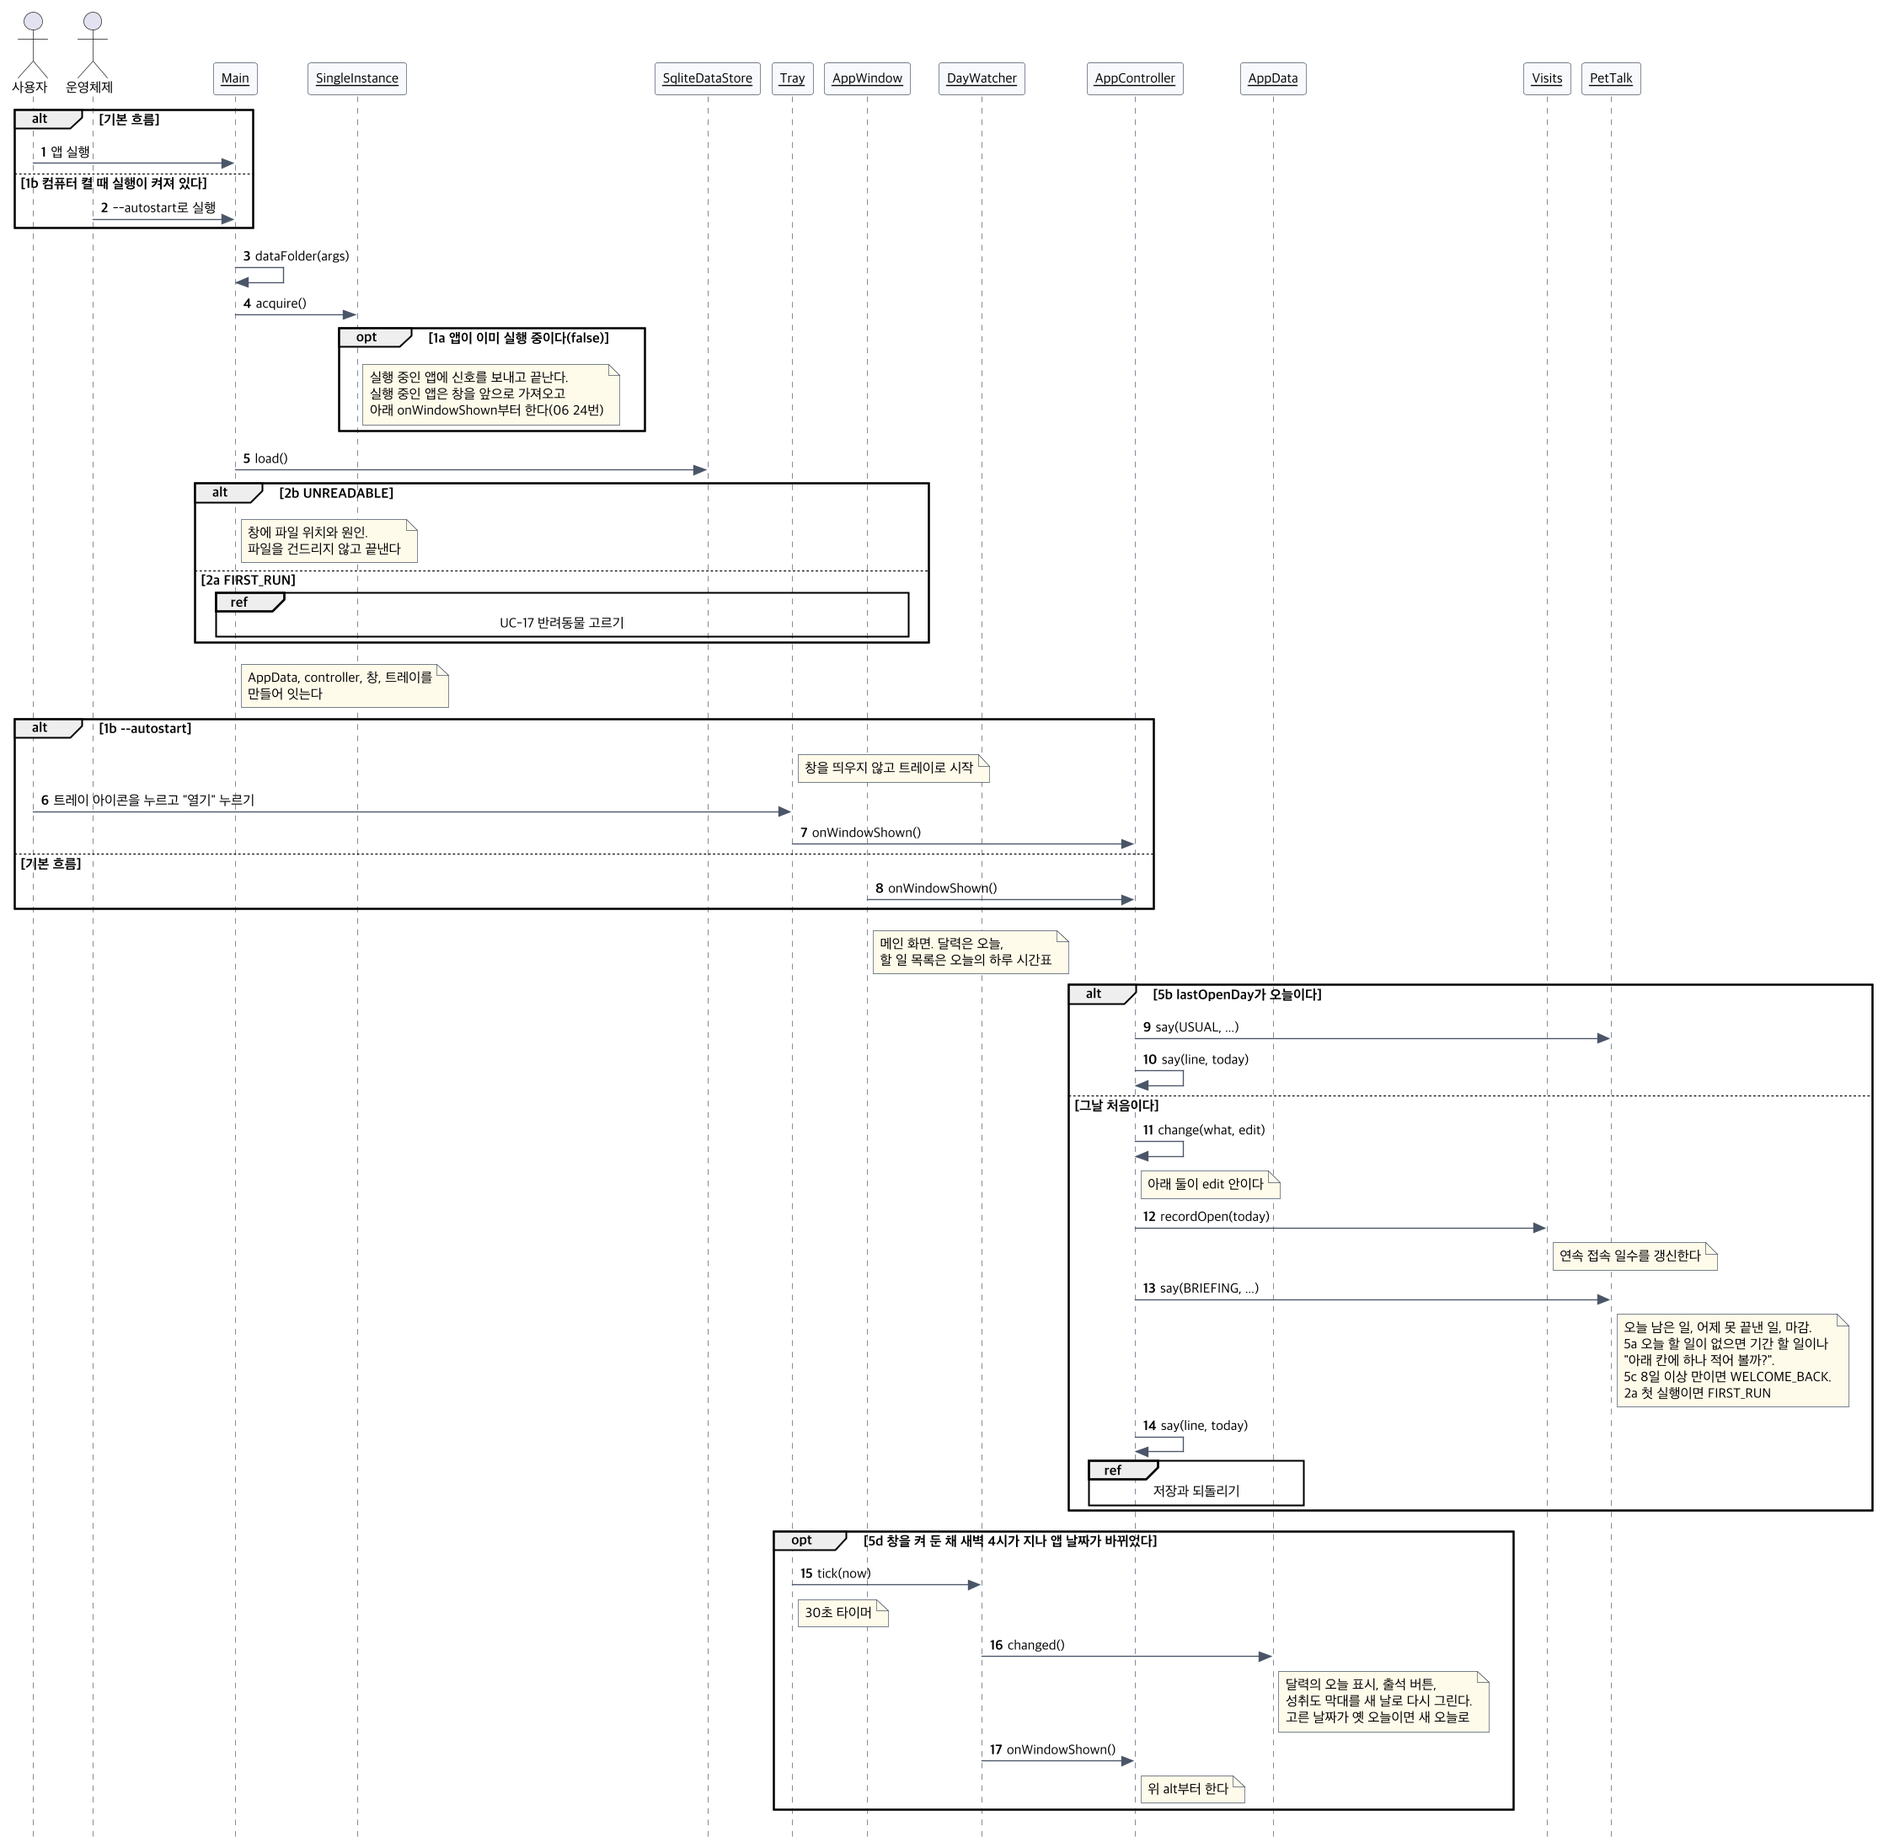
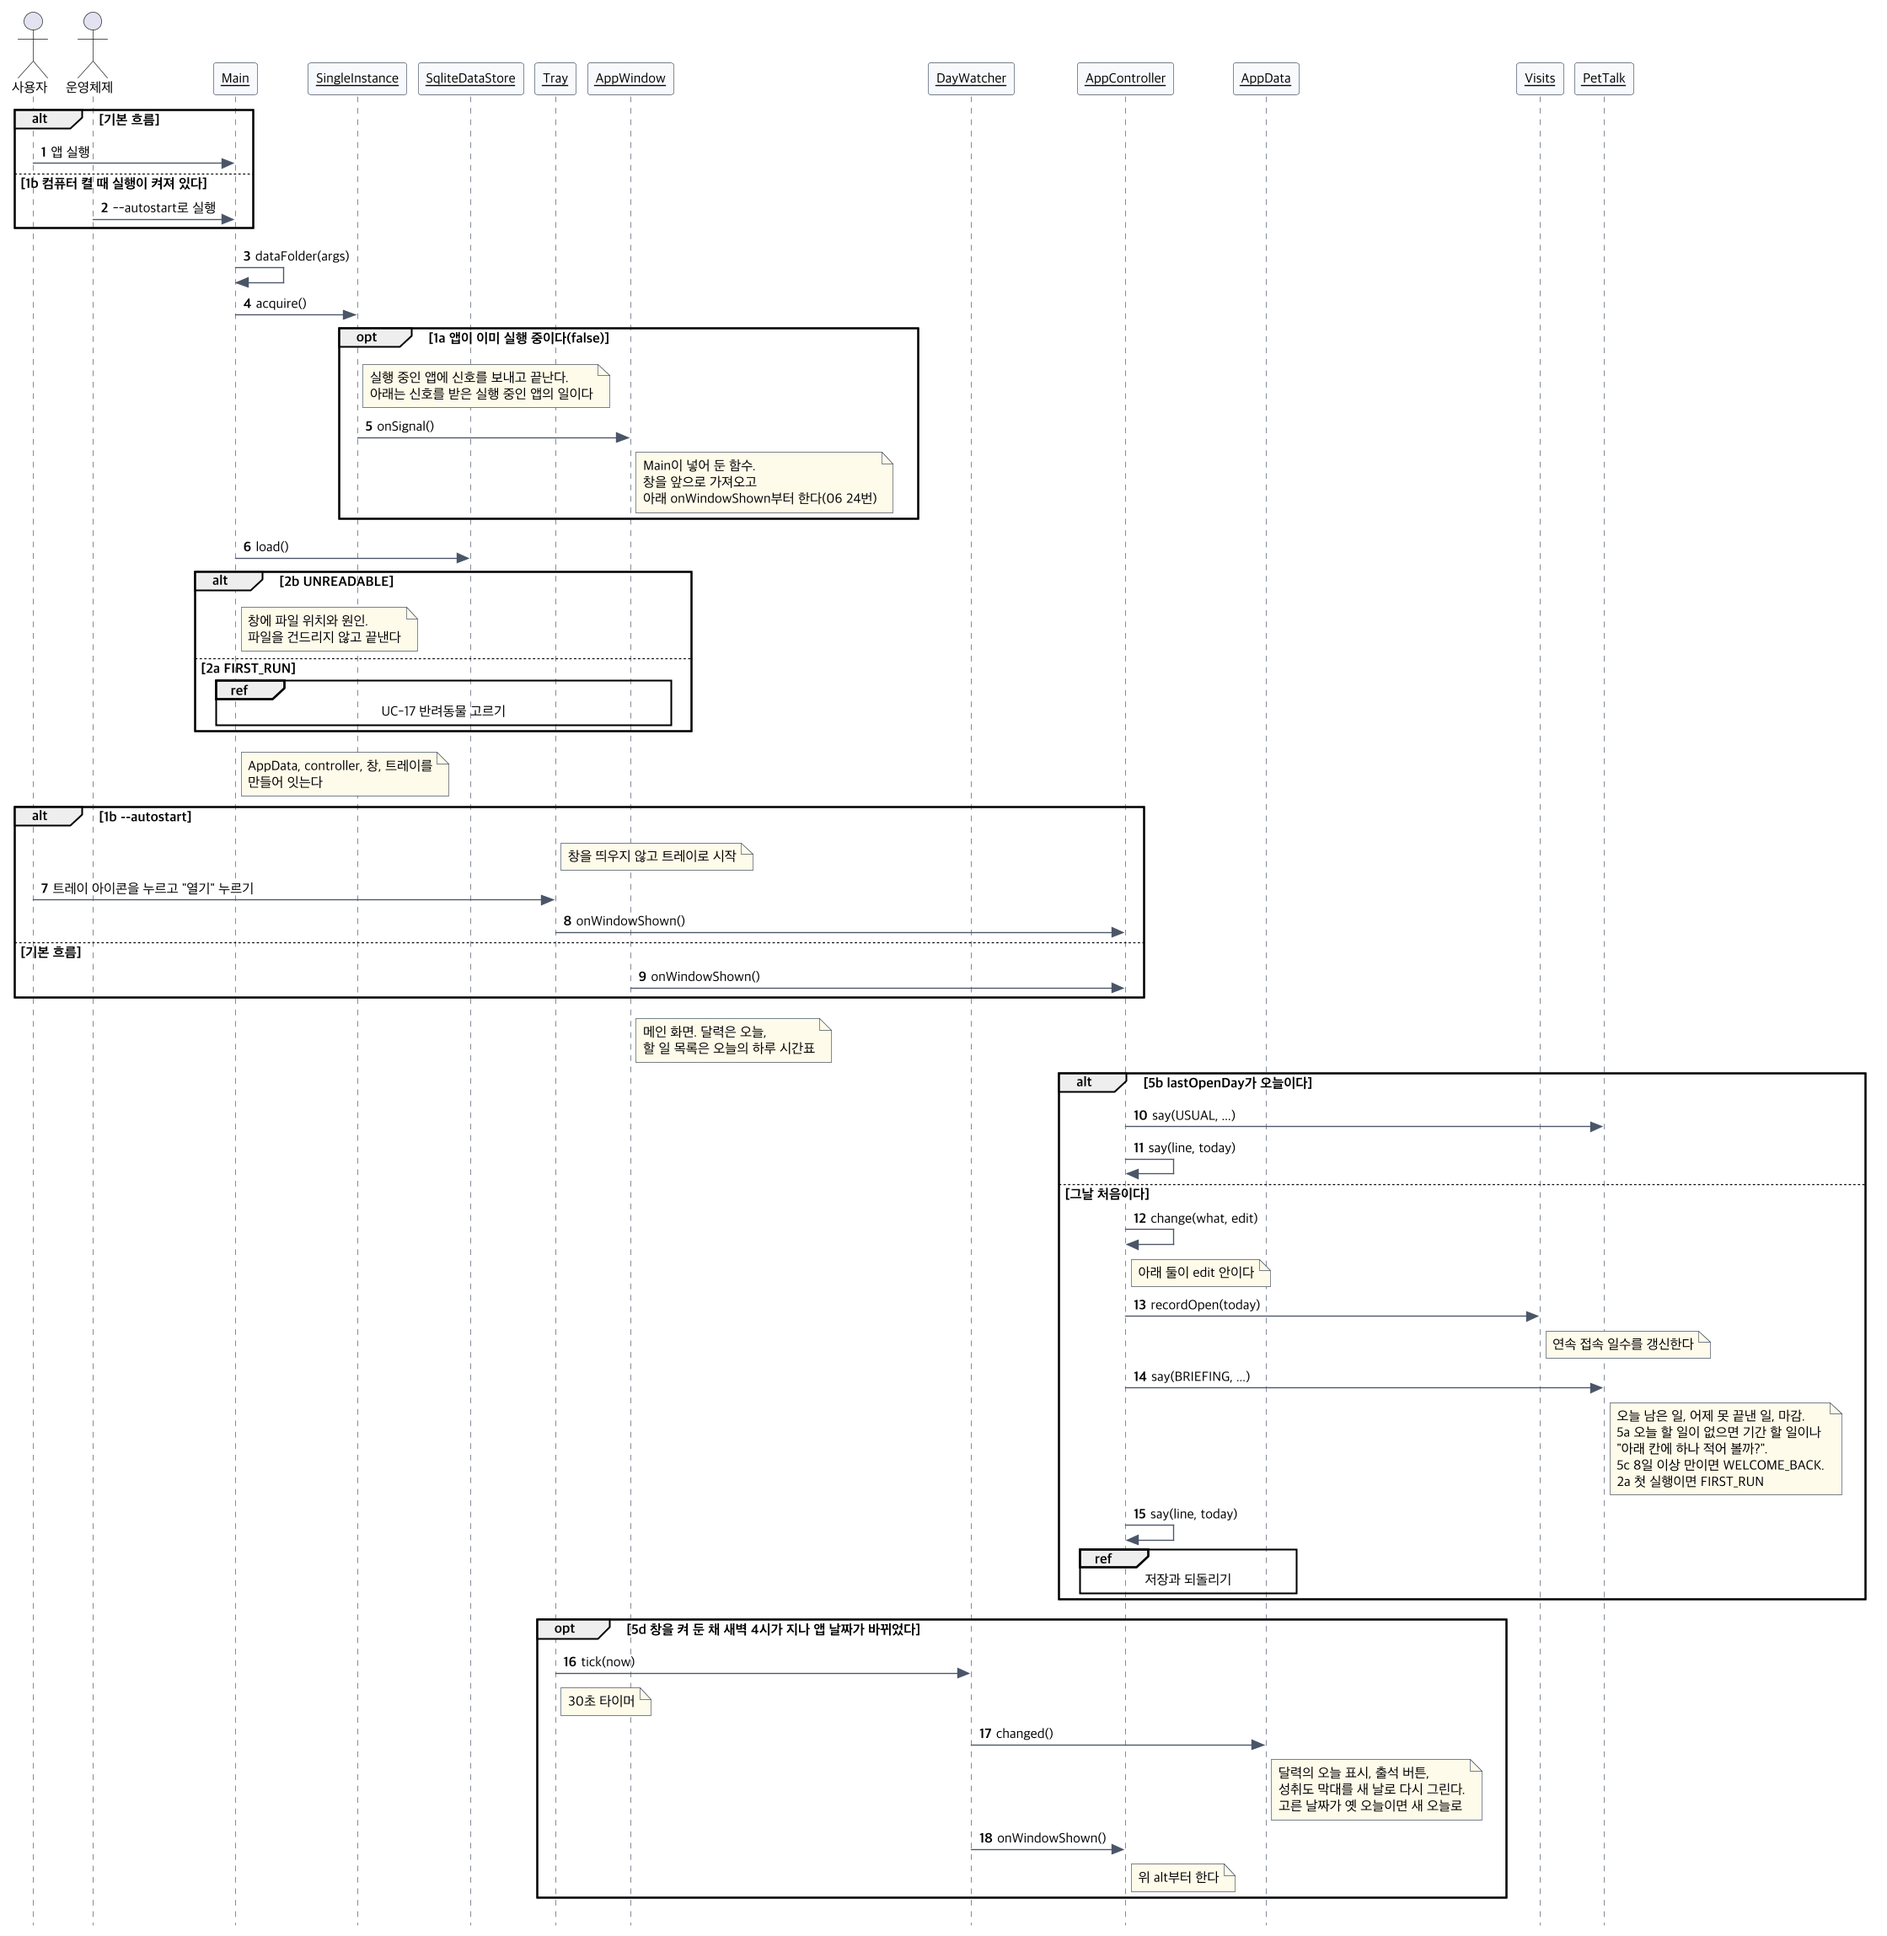
docs(home): 04 UC-01 1a를 SingleInstance의 onSignal 메시지로 그리기 (#299)

diff --git a/docs/04-sequence-diagram.md b/docs/04-sequence-diagram.md
@@ -96,6 +96,7 @@
 ![UC-01](diagrams/seq-uc01.png)
 
 - 진입점 `Main`은 층 밖에서 클래스를 만들어 잇기만 해서 07에 화살표가 없다(07 "층과 의존 방향"). 그래서 `Main`이 부르는 메시지에는 07 화살표가 없다.
+- 1a의 `onSignal`은 `Main`이 `SingleInstance`에 넣어 둔 함수라 07의 필드 이름으로 적었다. 신호를 받는 쪽은 이미 실행 중인 앱이다.
 - 그날 처음인지는 `onWindowShown` 안에서 가른다(06 15번). 1a로 앞에 온 창도, 1b의 트레이 "열기"도, 5d의 날 바뀜도 이 메시지부터 같다.
 - 연속 접속 일수(`lastOpenDay`, `streak`)는 저장할 데이터라 22번 `change`로 감쌌다. 5b의 `USUAL`은 펫 말만 바꾸므로 UC-09처럼 `say`로 알림만 보낸다.
 - 5a와 5c, 2a의 첫 말은 `PetTalk.say`가 고르는 상황과 문장만 달라 그 메시지의 노트에 적었다.
